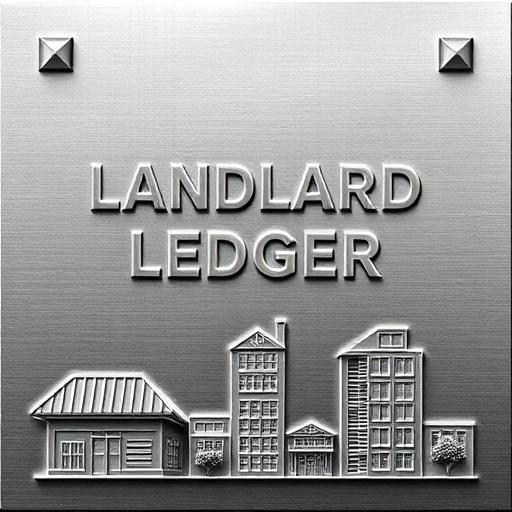
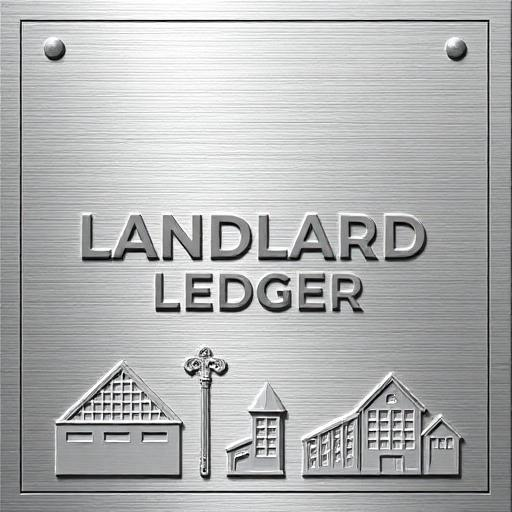
Fix card image text
Fixes the "Landlard Ledger" typo and generates new images for all cards based on their specialties.

diff --git a/src/components/InteractiveDemo.tsx b/src/components/InteractiveDemo.tsx
@@ -3,22 +3,22 @@ import { VercelV0Chat } from "@/components/ui/v0-ai-chat";
 import { Dock, DockIcon, DockItem, DockLabel } from "@/components/ui/dock";
 import AnimatedBrandCard from "./AnimatedBrandCard";
 
-import landlordLedgerGrayNew from "@/assets/landlord-ledger-grayscale-new.jpg";
-import longShortGray from "@/assets/long-short-grayscale.jpg";
+// Import all generated images
+import longShortGrayNew from "@/assets/long-short-grayscale-new.jpg";
 import longShortColor from "@/assets/long-short-color.jpg";
-import infraLedgerGray from "/lovable-uploads/25257823-3fe9-4deb-adbe-c27f2e30fe2f.png";
+import infraLedgerGrayNew from "@/assets/infraledger-grayscale-new.jpg";
 import infraLedgerColor from "@/assets/infraledger-color.jpg";
-import allocatorGray from "@/assets/allocator-grayscale.jpg";
+import allocatorGrayNew from "@/assets/allocator-grayscale-new.jpg";
 import allocatorColor from "@/assets/allocator-color.jpg";
-import naturalCurrencyGray from "@/assets/natural-currency-grayscale.jpg";
+import naturalCurrencyGrayNew from "@/assets/natural-currency-grayscale-new.jpg";
 import naturalCurrencyColor from "@/assets/natural-currency-color.jpg";
-import debtCapitalGray from "@/assets/debt-capital-grayscale.jpg";
+import debtCapitalGrayNew from "@/assets/debt-capital-grayscale-new.jpg";
 import debtCapitalColor from "@/assets/debt-capital-color.jpg";
-import carryConquerGray from "@/assets/carry-conquer-grayscale.jpg";
+import carryConquerGrayNew from "@/assets/carry-conquer-grayscale-new.jpg";
 import carryConquerColor from "@/assets/carry-conquer-color.jpg";
-import landlordLedgerGray from "@/assets/landlord-ledger-grayscale.jpg";
+import landlordLedgerGrayNew from "@/assets/landlord-ledger-grayscale-new.jpg";
 import landlordLedgerColor from "@/assets/landlord-ledger-color.jpg";
-import republicGray from "@/assets/republic-grayscale.jpg";
+import republicGrayNew from "@/assets/republic-grayscale-new.jpg";
 import republicColor from "@/assets/republic-color.jpg";
 
 const InteractiveDemo = () => {
@@ -73,7 +73,7 @@ const InteractiveDemo = () => {
             { 
               name: "The Long & Short", 
               description: "",
-              grayscaleImage: longShortGray,
+              grayscaleImage: longShortGrayNew,
               colorImage: longShortColor,
               detailedDescription: "Advanced hedge fund strategies combining quantitative analysis with traditional long/short equity approaches. Real-time market sentiment tracking and algorithmic trading signals for institutional investors.",
               link: "https://longshorthf.substack.com/"
@@ -81,7 +81,7 @@ const InteractiveDemo = () => {
             { 
               name: "InfraLedger", 
               description: "",
-              grayscaleImage: "/lovable-uploads/fbc9a6dd-fabb-4d96-ac35-edda576dbd2e.png",
+              grayscaleImage: infraLedgerGrayNew,
               colorImage: infraLedgerColor,
               detailedDescription: "Infrastructure investment tracking - Global platform for transportation, renewable energy, and smart city investments with sustainable infrastructure opportunities.",
               link: "https://theinfraledger.substack.com/"
@@ -89,7 +89,7 @@ const InteractiveDemo = () => {
             { 
               name: "The Allocator's Almanac", 
               description: "",
-              grayscaleImage: allocatorGray,
+              grayscaleImage: allocatorGrayNew,
               colorImage: allocatorColor,
               detailedDescription: "Sophisticated portfolio allocation tools for institutional investors including pension funds, endowments, and family offices. Advanced risk management and diversification strategies across multiple asset classes.",
               link: "https://allocatorsalmanac.substack.com/"
@@ -97,7 +97,7 @@ const InteractiveDemo = () => {
             { 
               name: "Natural Currency", 
               description: "",
-              grayscaleImage: naturalCurrencyGray,
+              grayscaleImage: naturalCurrencyGrayNew,
               colorImage: naturalCurrencyColor,
               detailedDescription: "Comprehensive commodities trading platform covering precious metals, energy resources, and agricultural products. Real-time market data and supply chain analytics for natural resource investments.",
               link: "https://naturalcurrency.substack.com/"
@@ -105,7 +105,7 @@ const InteractiveDemo = () => {
             { 
               name: "Debt Capital Chronicles", 
               description: "",
-              grayscaleImage: debtCapitalGray,
+              grayscaleImage: debtCapitalGrayNew,
               colorImage: debtCapitalColor,
               detailedDescription: "Private debt marketplace connecting institutional lenders with corporate borrowers. Structured credit products, direct lending opportunities, and comprehensive credit risk assessment tools.",
               link: "https://debtcapitalchronicles.substack.com/"
@@ -113,7 +113,7 @@ const InteractiveDemo = () => {
             { 
               name: "Carry and Conquer", 
               description: "",
-              grayscaleImage: carryConquerGray,
+              grayscaleImage: carryConquerGrayNew,
               colorImage: carryConquerColor,
               detailedDescription: "Elite private equity platform featuring growth capital, buyout opportunities, and venture investments. Comprehensive due diligence tools and portfolio company performance tracking for institutional investors.",
               link: "https://carryandconquer.substack.com/"
@@ -129,7 +129,7 @@ const InteractiveDemo = () => {
             { 
               name: "Republic", 
               description: "",
-              grayscaleImage: republicGray,
+              grayscaleImage: republicGrayNew,
               colorImage: republicColor,
               detailedDescription: "Comprehensive public markets research platform with institutional-grade equity analysis, market intelligence, and trading execution. Advanced charting tools and fundamental analysis for professional investors.",
               link: "https://www.frondex.com/"
